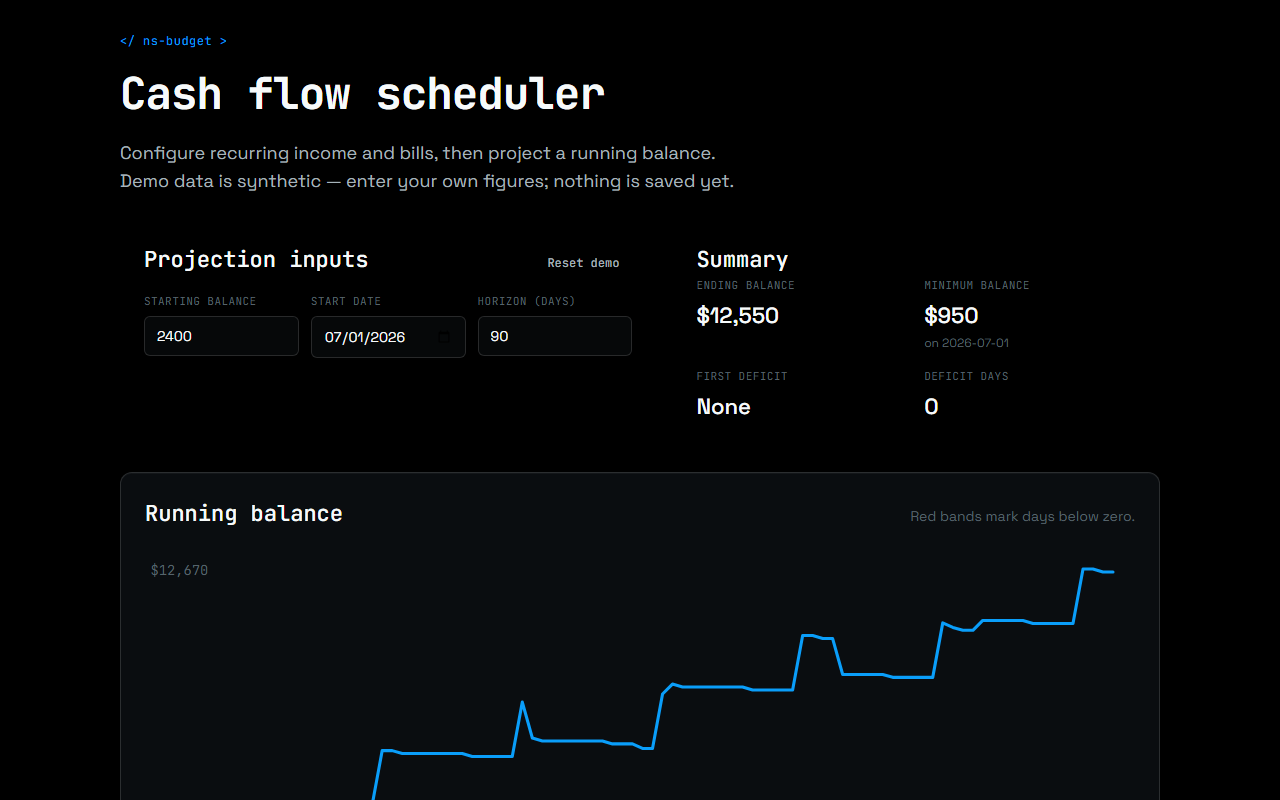
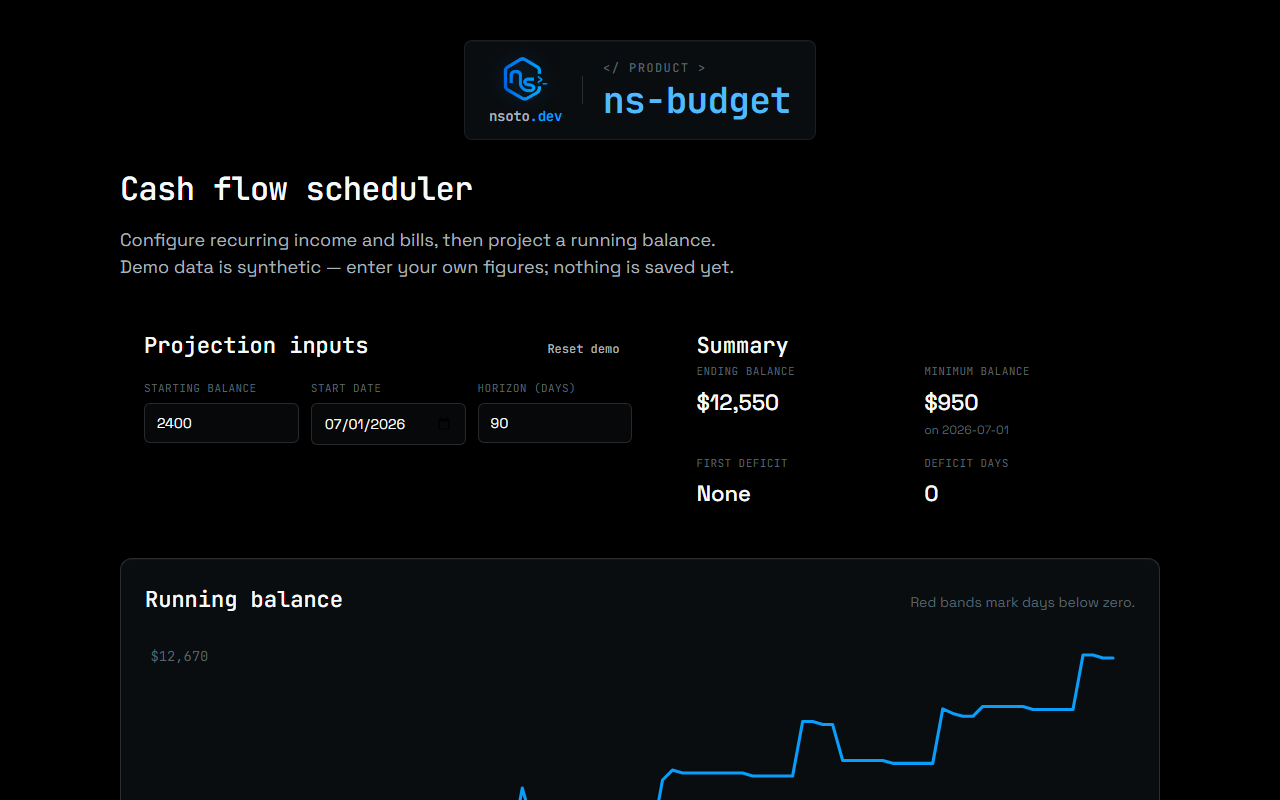
polish(landing): stabilize nav and finish funnel layout
Keep nav opaque by default so deep-links and refresh-while-scrolled do not flash content through a transparent bar; align About/Contact, nav order, and preview shots with the M2d funnel.

diff --git a/components/landing/About.tsx b/components/landing/About.tsx
@@ -1,120 +1,39 @@
-import Image from "next/image";
-import Link from "next/link";
-import { ArrowRight } from "lucide-react";
 import { portfolioData } from "@/lib/portfolio-data";
-import { Card } from "@/components/ui/Card";
 
 export function About() {
-  const { landing, caseStudyCallout } = portfolioData.about;
+  const { landing } = portfolioData.about;
 
   return (
     <section
       id="about"
       className="landing-section"
       style={{
-        maxWidth: "var(--content-max)",
-        margin: "0 auto",
-        padding: "var(--space-16) var(--space-6)",
+        padding: "var(--space-16) 0",
       }}
     >
-      <div className="landing-about-grid">
-        <div
+      <div>
+        <h2
           style={{
-            width: 112,
-            height: 112,
-            borderRadius: "50%",
-            border: "2px solid var(--brand)",
-            boxShadow: "var(--glow-brand-sm)",
-            display: "flex",
-            alignItems: "center",
-            justifyContent: "center",
-            flexShrink: 0,
-            background: "var(--gradient-brand-subtle)",
+            fontFamily: "var(--font-mono)",
+            fontSize: "var(--text-2xl)",
+            color: "var(--text-primary)",
+            margin: "0 0 var(--space-5)",
           }}
         >
-          <Image
-            src="/logo/nsoto-mark-cyan.png"
-            alt=""
-            width={69}
-            height={69}
-            style={{ width: "62%", height: "auto" }}
-          />
-        </div>
-        <div>
-          <h2
-            style={{
-              fontFamily: "var(--font-mono)",
-              fontSize: "var(--text-2xl)",
-              color: "var(--text-primary)",
-              margin: "0 0 var(--space-5)",
-            }}
-          >
-            About me
-          </h2>
-          <p
-            style={{
-              fontFamily: "var(--font-sans)",
-              fontSize: "var(--text-md)",
-              color: "var(--text-primary)",
-              lineHeight: "var(--leading-relaxed)",
-              maxWidth: "640px",
-              margin: 0,
-              opacity: 0.88,
-            }}
-          >
-            {landing}
-          </p>
-          <Link href={caseStudyCallout.href} style={{ textDecoration: "none", display: "block" }}>
-            <Card interactive style={{ marginTop: "var(--space-8)", maxWidth: "640px" }}>
-              <p
-                style={{
-                  fontFamily: "var(--font-mono)",
-                  fontSize: "var(--text-xs)",
-                  color: "var(--brand)",
-                  letterSpacing: "var(--tracking-wide)",
-                  margin: "0 0 var(--space-3)",
-                }}
-              >
-                {caseStudyCallout.eyebrow}
-              </p>
-              <h3
-                style={{
-                  fontFamily: "var(--font-mono)",
-                  fontSize: "var(--text-md)",
-                  color: "var(--text-primary)",
-                  margin: "0 0 var(--space-2)",
-                }}
-              >
-                {caseStudyCallout.title}
-              </h3>
-              <p
-                style={{
-                  fontFamily: "var(--font-sans)",
-                  fontSize: "var(--text-sm)",
-                  color: "var(--text-primary)",
-                  lineHeight: "var(--leading-normal)",
-                  margin: "0 0 var(--space-4)",
-                  opacity: 0.85,
-                }}
-              >
-                {caseStudyCallout.description}
-              </p>
-              <span
-                style={{
-                  display: "inline-flex",
-                  alignItems: "center",
-                  gap: "var(--space-2)",
-                  fontFamily: "var(--font-mono)",
-                  fontSize: "var(--text-xs)",
-                  color: "var(--brand)",
-                }}
-              >
-                Read case study
-                <ArrowRight size={14} aria-hidden />
-              </span>
-            </Card>
-          </Link>
-        </div>
+          About me
+        </h2>
+        <p
+          style={{
+            fontFamily: "var(--font-sans)",
+            fontSize: "var(--text-md)",
+            color: "var(--text-primary)",
+            lineHeight: "var(--leading-relaxed)",
+            margin: 0,
+            opacity: 0.88,
+          }}
+        >
+          {landing}
+        </p>
       </div>
     </section>
   );

diff --git a/app/globals.css b/app/globals.css
@@ -5,6 +5,9 @@
 
 html {
   -webkit-text-size-adjust: 100%;
+  /* Always reserve the vertical scrollbar so page width stays constant
+     between short pages (no scroll) and the tall landing page. */
+  overflow-y: scroll;
 }
 
 html,
@@ -94,13 +97,6 @@ a:hover {
   gap: var(--space-4);
 }
 
-.landing-about-grid {
-  display: grid;
-  grid-template-columns: auto 1fr;
-  gap: var(--space-10);
-  align-items: flex-start;
-}
-
 .landing-section-sub {
   font-family: var(--font-sans);
   font-size: var(--text-md);
@@ -132,15 +128,42 @@ a:hover {
 }
 
 .landing-apps-preview {
-  aspect-ratio: 16 / 10;
+  height: clamp(120px, 14vw, 170px);
   overflow: hidden;
   background: var(--bg-elevated, #0a0a0a);
   border-bottom: 1px solid var(--border-subtle);
 }
 
+.landing-about-contact-grid {
+  display: grid;
+  grid-template-columns: minmax(0, 0.8fr) minmax(0, 1.2fr);
+  align-items: start;
+  gap: var(--space-16);
+  max-width: var(--content-max);
+  margin: 0 auto;
+  padding: 0 var(--space-6);
+}
+
 @media (max-width: 768px) {
   .landing-apps-teaser-grid {
     grid-template-columns: 1fr;
+  }
+
+  .landing-apps-preview {
+    height: 140px;
+  }
+
+  .landing-about-contact-grid {
+    padding-left: 0;
+    padding-right: 0;
+  }
+}
+
+@media (max-width: 960px) {
+  .landing-about-contact-grid {
+    grid-template-columns: 1fr;
+    gap: 0;
+    max-width: var(--content-narrow);
   }
 }
 
@@ -217,13 +240,6 @@ a:hover {
 
   .landing-hero-ctas > button {
     width: 100%;
-  }
-
-  .landing-about-grid {
-    grid-template-columns: 1fr;
-    justify-items: center;
-    text-align: center;
-    gap: var(--space-6);
   }
 
   .landing-contact-fields {

diff --git a/components/SiteNav.tsx b/components/SiteNav.tsx
@@ -5,10 +5,15 @@ import Link from "next/link";
 import { usePathname } from "next/navigation";
 import { Menu, X } from "lucide-react";
 import { GithubIcon } from "@/components/icons";
-import { useEffect, useState, type MouseEvent } from "react";
+import { useEffect, useLayoutEffect, useState, type MouseEvent } from "react";
 import { portfolioData } from "@/lib/portfolio-data";
 import { IconButton } from "@/components/ui/IconButton";
 import { NavLink } from "@/components/ui/NavLink";
+
+// Run before paint on the client so deep-linked (`/#section`) loads never
+// flash a transparent nav; fall back to a normal effect during SSR.
+const useIsomorphicLayoutEffect =
+  typeof window !== "undefined" ? useLayoutEffect : useEffect;
 
 function resolveNavHref(href: string, onHome: boolean): string {
   if (href.startsWith("#")) {
@@ -19,6 +24,9 @@ function resolveNavHref(href: string, onHome: boolean): string {
 
 function isNavItemActive(href: string, pathname: string, activeHash: string): boolean {
   if (href.startsWith("#")) {
+    if (href === "#work" && pathname === "/experience") {
+      return true;
+    }
     return pathname === "/" && activeHash === href;
   }
   if (href === "/case-studies") {
@@ -30,14 +38,26 @@ function isNavItemActive(href: string, pathname: string, activeHash: string): bo
 export function SiteNav() {
   const pathname = usePathname();
   const onHome = pathname === "/";
-  const [scrolled, setScrolled] = useState(false);
+  // Default to the opaque bar so the first paint (SSR/hard refresh) is always
+  // solid — the transparent hero treatment is opt-in only once JS confirms we
+  // are actually parked at the very top of the home page. This prevents the
+  // page content from flashing through a transparent nav on refresh-while-
+  // scrolled or when deep-linking to a `/#section` anchor.
+  const [atHeroTop, setAtHeroTop] = useState(false);
   const [activeHash, setActiveHash] = useState("");
   const [menuOpen, setMenuOpen] = useState(false);
 
+  useIsomorphicLayoutEffect(() => {
+    if (!onHome) {
+      setAtHeroTop(false);
+      return;
+    }
+    setAtHeroTop(window.scrollY <= 8);
+  }, [onHome]);
+
   useEffect(() => {
     if (!onHome) return;
-    const onScroll = () => setScrolled(window.scrollY > 8);
-    onScroll();
+    const onScroll = () => setAtHeroTop(window.scrollY <= 8);
     window.addEventListener("scroll", onScroll, { passive: true });
     return () => window.removeEventListener("scroll", onScroll);
   }, [onHome]);
@@ -84,12 +104,12 @@ export function SiteNav() {
       <header
         className="landing-nav"
         style={{
-          background: scrolled || menuOpen || !onHome ? "rgba(0,0,0,0.75)" : "transparent",
-          backdropFilter: scrolled || menuOpen || !onHome ? "blur(12px)" : "none",
+          background: atHeroTop && !menuOpen ? "transparent" : "rgba(0,0,0,0.75)",
+          backdropFilter: atHeroTop && !menuOpen ? "none" : "blur(12px)",
           borderBottom:
-            scrolled || menuOpen || !onHome
-              ? "1px solid var(--border-subtle)"
-              : "1px solid transparent",
+            atHeroTop && !menuOpen
+              ? "1px solid transparent"
+              : "1px solid var(--border-subtle)",
           transition: "var(--transition-default)",
         }}
       >

diff --git a/lib/portfolio-data.ts b/lib/portfolio-data.ts
@@ -54,12 +54,10 @@ export const LANDING_EXPERIENCE_IDS = ["sedgwick", "southeastern"] as const;
 export const portfolioData = {
   name: "Nelson Soto",
   nav: [
-    { label: "Work", href: "#work" },
-    { label: "Skills", href: "#skills" },
-    { label: "About", href: "#about" },
-    { label: "Contact", href: "#contact" },
-    { label: "Case Studies", href: "/case-studies" },
     { label: "Apps", href: "/apps" },
+    { label: "Work", href: "#work" },
+    { label: "Case Studies", href: "/case-studies" },
+    { label: "Contact", href: "#contact" },
   ] satisfies NavItem[],
   caseStudies: [
     {

diff --git a/app/page.tsx b/app/page.tsx
@@ -19,8 +19,10 @@ export default function Home() {
         <Apps />
         <Experience />
         <Skills />
-        <About />
-        <Contact />
+        <div className="landing-about-contact-grid">
+          <About />
+          <Contact />
+        </div>
       </main>
       <Footer />
     </>

diff --git a/components/landing/Contact.tsx b/components/landing/Contact.tsx
@@ -99,9 +99,7 @@ export function Contact() {
       id="contact"
       className="landing-contact"
       style={{
-        maxWidth: "var(--content-narrow)",
-        margin: "0 auto",
-        padding: "var(--space-16) var(--space-6) var(--space-24)",
+        padding: "var(--space-16) 0 var(--space-24)",
       }}
     >
       <h2